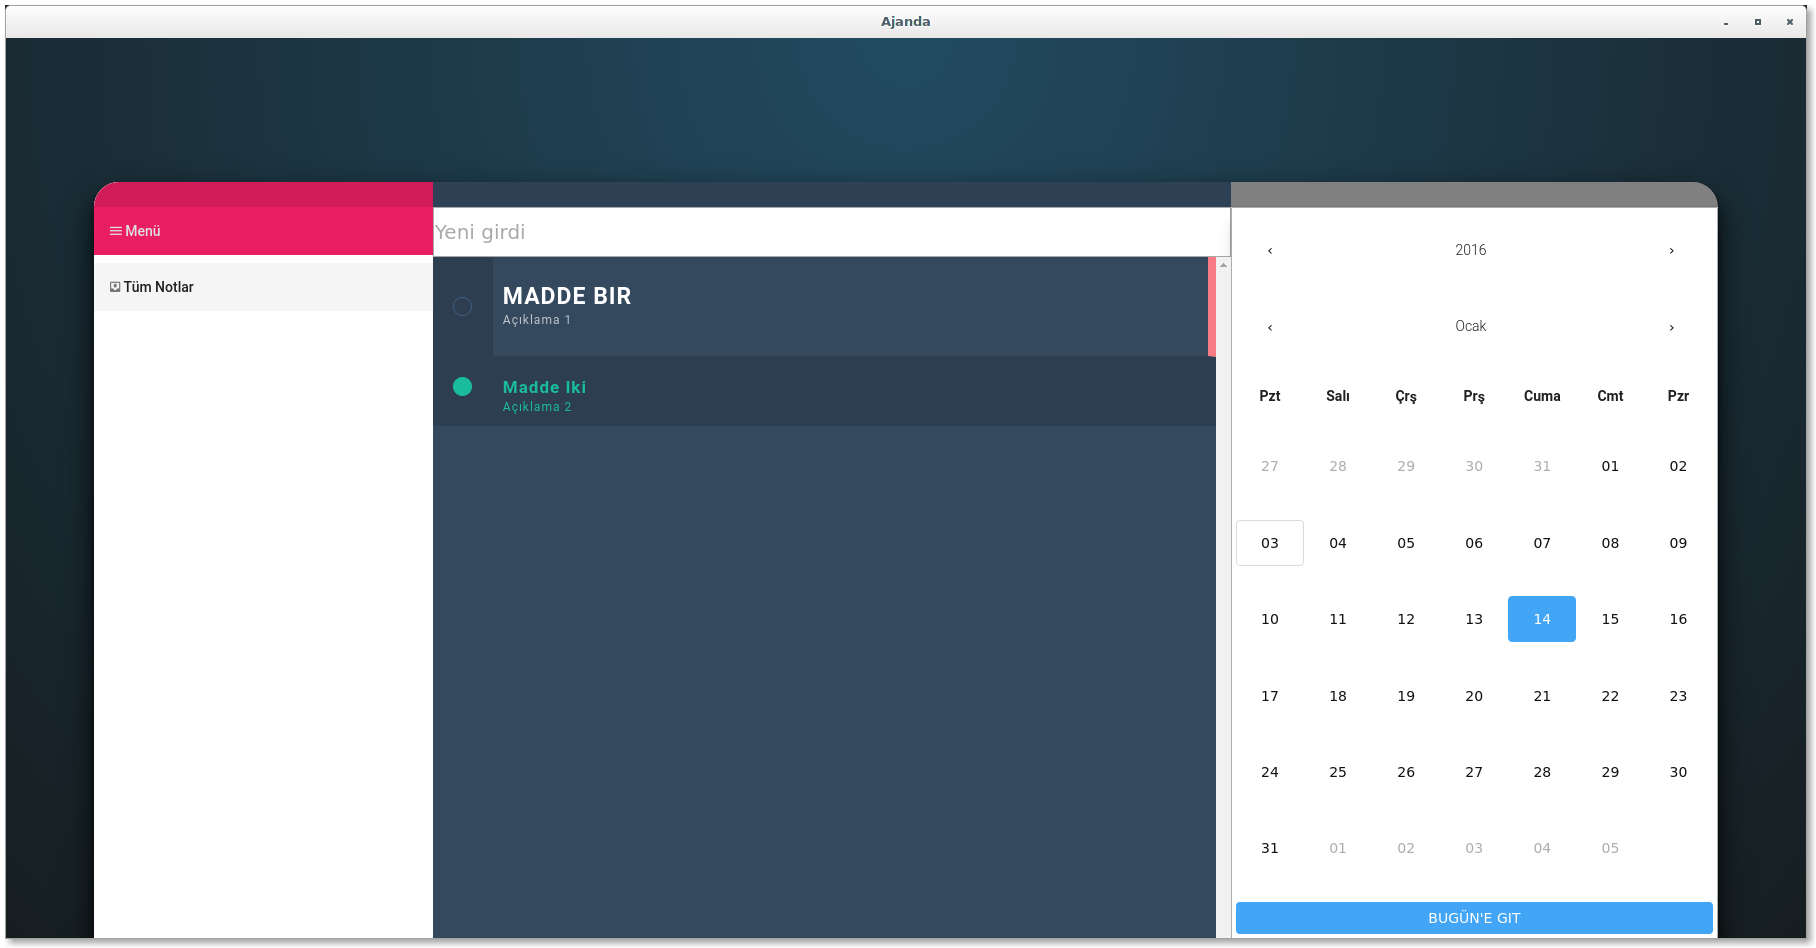
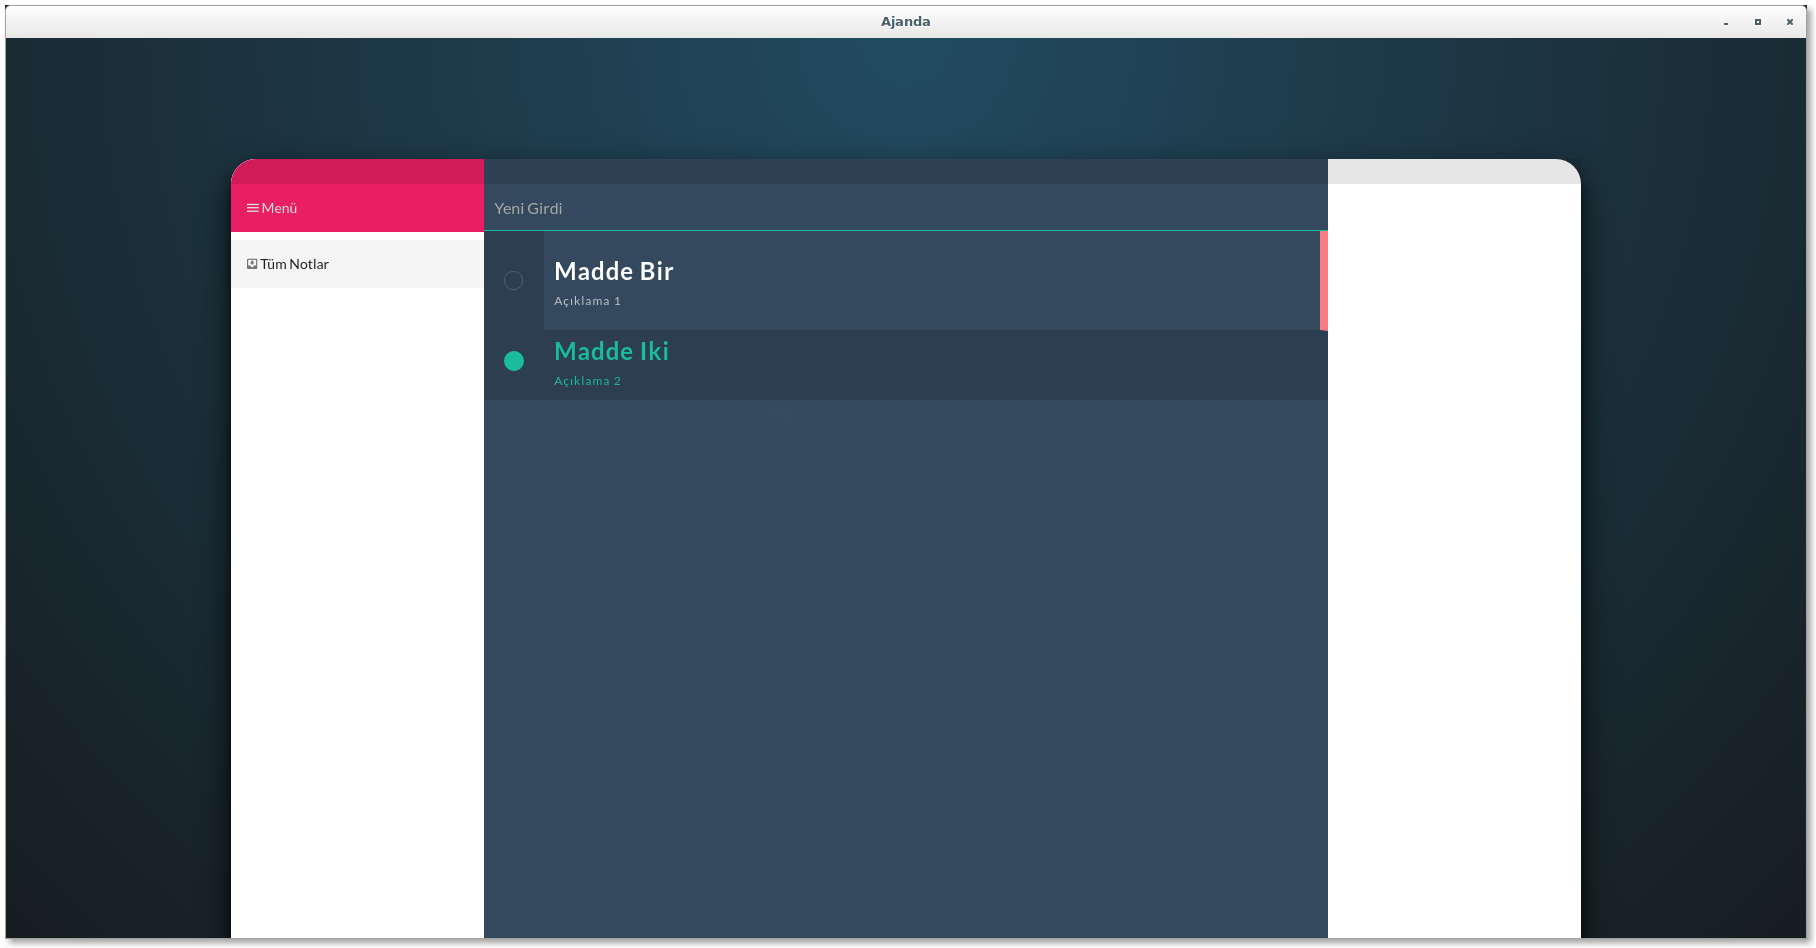
Liste girdi alanı modernleştirildi.

Changed region(s): [[0.0308, 0.153, 0.9559, 1.0]]

diff --git a/app/css/liste.css b/app/css/liste.css
@@ -1,4 +1,4 @@
-ul {
+.notlar ul {
   list-style: none;
   margin: 0;
   padding: 0;
@@ -10,26 +10,27 @@ ul {
   background: rgba(0, 0, 0, 0.1);
 }
 
-.steps {
+.notlar {
   position: relative;
   top: 5%;
   min-width: 100%;
   overflow-y: auto;
-  height: 79vh;
+  height: 80vh;
   padding-bottom: 5px;
+  overflow-x: hidden;
 }
 
-input[type=checkbox] {
+.notlar input[type=checkbox] {
   display: none;
 }
 
-.ui-sortable-placeholder {
+.notlar .ui-sortable-placeholder {
   border: 1px dotted #fff;
   padding: 30px 20px;
   position: relative;
 }
 
-.ui-sortable-placeholder:after {
+.notlar .ui-sortable-placeholder:after {
   content: "Yeni yerim burası olacak!";
   position: absolute;
   top: 30%;
@@ -40,7 +41,7 @@ input[type=checkbox] {
   text-align: center;
 }
 
-label {
+.notlar label {
   background: #34495E;
   height: 69px;
   width: 100%;
@@ -60,7 +61,7 @@ label {
   -webkit-box-sizing: border-box;
 }
 
-label h2 span {
+.notlar label h2 span {
   display: block;
   font-size: 12px;
   text-transform: capitalize;
@@ -68,7 +69,7 @@ label h2 span {
   color: #bdc3c7;
 }
 
-label:before {
+.notlar label:before {
   content: "";
   width: 19px;
   height: 19px;
@@ -82,7 +83,7 @@ label:before {
   z-index: 9999;
 }
 
-label:after {
+.notlar label:after {
   content: "";
   width: 60px;
   height: 68px;
@@ -92,24 +93,24 @@ label:after {
   top: 0;
 }
 
-#label-1:checked ~ label[for=label-1],
-#label-2:checked ~ label[for=label-2] {
+.notlar #label-1:checked ~ label[for=label-1],
+.notlar #label-2:checked ~ label[for=label-2] {
   background: #2C3E50;
   color: #1ABC9C;
 }
 
-#label-1:checked ~ label[for=label-1] h2 span,
-#label-2:checked ~ label[for=label-2] h2 span {
+.notlar #label-1:checked ~ label[for=label-1] h2 span,
+.notlar #label-2:checked ~ label[for=label-2] h2 span {
   color: #1ABC9C;
 }
 
-#label-1:checked ~ label[for=label-1]:before ,
-#label-2:checked ~ label[for=label-2]:before {
+.notlar #label-1:checked ~ label[for=label-1]:before ,
+.notlar #label-2:checked ~ label[for=label-2]:before {
   background: #1abc9d no-repeat center center;
-  border: 1px solid #1abc9d;
+  border: 10px solid #1abc9d;
 }
 
-li:first-child label {
+.notlar li:first-child label {
   padding-top: 25px;
   height: 100px;
   text-transform: capitalize;
@@ -117,11 +118,11 @@ li:first-child label {
   border-right: 8px solid #f87c85;
 }
 
-li:first-child label:before {
+.notlar li:first-child label:before {
   top: 40%;
 }
 
-li:first-child label:after {
+.notlar li:first-child label:after {
   height: 100px;
 }
 
@@ -129,6 +130,32 @@ li:first-child label:after {
   top: 0%;
   width: 100%;
   vertical-align: middle;
-  height: 50px;
-  font-size: 20px;
+  height: 47px;
+  font-size: 16px;
+  display: block;
+  border: none;
+  border-bottom: solid 1px #1abc9c;
+  -webkit-transition: all 0.3s cubic-bezier(0.64, 0.09, 0.08, 1);
+  transition: all 0.3s cubic-bezier(0.64, 0.09, 0.08, 1);
+  background: -webkit-linear-gradient(top, rgba(255, 255, 255, 0) 96%, #1abc9c 4%);
+  background: linear-gradient(to bottom, rgba(255, 255, 255, 0) 96%, #1abc9c 4%);
+  background-position: -2000px 0;
+  background-size: 100% 100%;
+  background-repeat: no-repeat;
+  color: white;
+  padding: 0px 10px;
+}
+
+.listeGirdisi input:focus, input:valid {
+  box-shadow: none;
+  outline: none;
+  background-position: 0 0;
+  box-shadow: 0 14px 50px rgba(0,0,0,0.75), 0 10px 10px rgba(0,0,0,0.5);
+}
+
+.listeGirdisi input:focus::-webkit-input-placeholder, input:valid::-webkit-input-placeholder {
+  color: #1abc9c;
+  -webkit-transform: translateY(-20px);
+          transform: translateY(-20px);
+  visibility: collapse !important;
 }

diff --git a/app/ana.html b/app/ana.html
@@ -21,10 +21,10 @@
 </head>
 
 <body class="ajanda">
-
     <div class="ui three column doubling grid container" id="icerik">
-        <div class="three wide column" id="menu">
 
+
+        <div class="three wide column" id="menu">
             <aside id="sidebar" class="sidebar sidebar-colored open" role="navigation">
 
                 <div class="sidebar-header header-colored">
@@ -35,39 +35,41 @@
                     <li class="active"><a href="#"><i class="zmdi zmdi-inbox"></i> Tüm Notlar</a></li>
                 </ul>
             </aside>
-
         </div>
-        <div class="ten wide column" id="liste">
 
+
+
+        <div class="ten wide column" id="liste">
             <div class="top-bar"></div>
+
             <div class="listeGirdisi">
-                <input type="text" placeholder="Yeni girdi" />
+                <input placeholder="Yeni Girdi" type="text" required="" />
+                
             </div>
 
-            <div class="steps">
+            <div class="notlar">
                 <ul id="sortable">
                     <li>
                         <input id='label-1' type='checkbox' />
                         <label for='label-1'><h2>Madde bir <span>Açıklama 1</span></h2></label>
                     </li>
                     <li>
-                        <input id='label-2' type='checkbox' checked/>
+                        <input id='label-2' type='checkbox' checked />
                         <label for='label-2'><h2>Madde iki <span>Açıklama 2</span></h2></label>
                     </li>
 
                 </ul>
             </div>
-
         </div>
+
+
 
         <div class="three wide column" id="takvim">
-
             <div class="top-bar"></div>
-            <h2>takvim</h2>
-
+            <!-- TAKVİM -->
         </div>
+
+
     </div>
-
 </body>
-
 </html>
